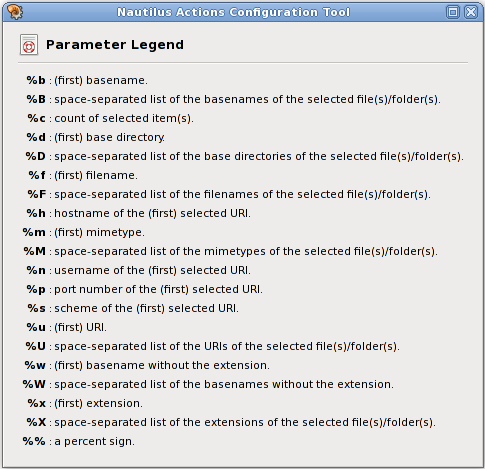
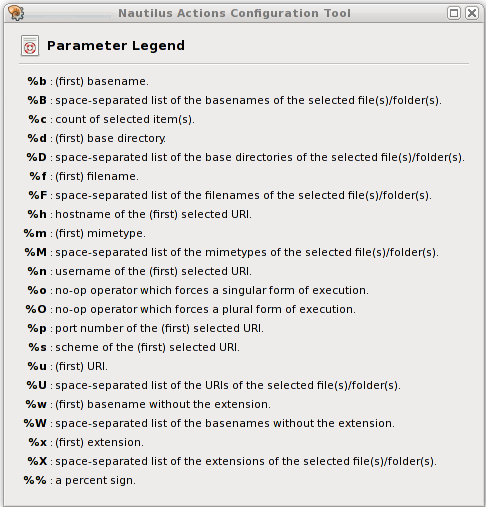
Add %o/%O no-op parameters
According to DES-EMA 0.15, %o/%O are no-op operators which force the
singular or plural form of execution.

Changed region(s): [[0.0, 0.0, 1.0, 1.0]]

diff --git a/src/core/na-tokens.h b/src/core/na-tokens.h
@@ -47,7 +47,9 @@
  * factorize this parsing one time for each new selection in the Nautilus
  * plugin, attaching the result to each item in the context menu.
  *
- * Adding a parameter requires updating of :
+ * Adding a parameter requires updating of:
+ * - doc/nact/C/figures/nact-legend.png screenshot
+ * - doc/nact/C/nact-execution.xml "Multiple execution" paragraph
  * - src/core/na-tokens.c::is_singular_exec() function
  * - src/core/na-tokens.c::parse_singular() function
  * - src/nact/nautilus-actions-config-tool.ui:LegendDialog labels
@@ -66,6 +68,8 @@
  * %m: (first) mimetype
  * %M: space-separated list of mimetypes
  * %n: username of the (first) URI
+ * %o: no-op operator which forces a singular form of execution
+ * %O: no-op operator which forces a plural form of execution
  * %p: port number of the (first) URI
  * %s: scheme of the (first) URI
  * %u: (first) URI

diff --git a/src/core/na-tokens.c b/src/core/na-tokens.c
@@ -470,6 +470,7 @@ is_singular_exec( const NATokens *tokens, const gchar *exec )
 			case 'd':
 			case 'f':
 			case 'm':
+			case 'o':
 			case 'u':
 			case 'w':
 			case 'x':
@@ -481,6 +482,7 @@ is_singular_exec( const NATokens *tokens, const gchar *exec )
 			case 'D':
 			case 'F':
 			case 'M':
+			case 'O':
 			case 'U':
 			case 'W':
 			case 'X':
@@ -628,6 +630,11 @@ parse_singular( const NATokens *tokens, const gchar *input, guint i, gboolean ut
 				if( tokens->private->mimetypes_str ){
 					output = g_string_append( output, tokens->private->mimetypes_str );
 				}
+				break;
+
+			/* no-op operators */
+			case 'o':
+			case 'O':
 				break;
 
 			case 'n':

diff --git a/src/core/na-object-profile-factory.c b/src/core/na-object-profile-factory.c
@@ -137,6 +137,8 @@ static NADataDef data_def_profile [] = {
 					"  %h: hostname of the URI\n" \
 					"  %m: space-separated list of the basenames of the selected file(s)/folder(s)\n" \
 					"  %M: space-separated list of the selected file(s)/folder(s), with their full paths\n" \
+					"  %o: no-op operator which forces a singular form of execution\n" \
+					"  %O: no-op operator which forces a plural form of execution\n" \
 					"  %p: port number of the first URI\n" \
 					"  %R: space-separated list of selected URIs\n" \
 					"  %s: scheme of the URI\n" \

diff --git a/src/core/na-icontext.c b/src/core/na-icontext.c
@@ -425,6 +425,7 @@ is_candidate_for_target( const NAIContext *object, guint target, GList *files )
 
 	if( !ok ){
 		g_debug( "%s: object is not candidate because target doesn't match (asked=%d)", thisfn, target );
+		/*na_object_dump( object );*/
 	}
 
 	return( ok );
